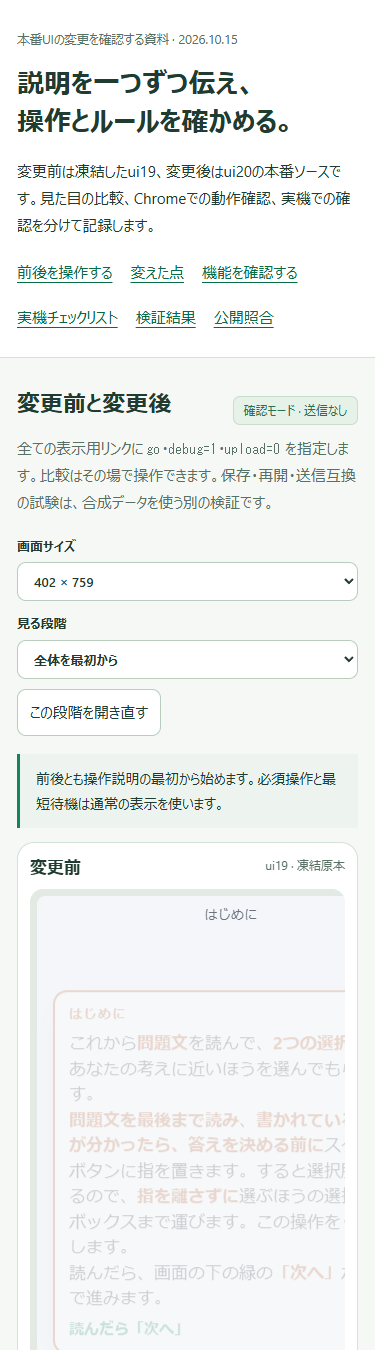
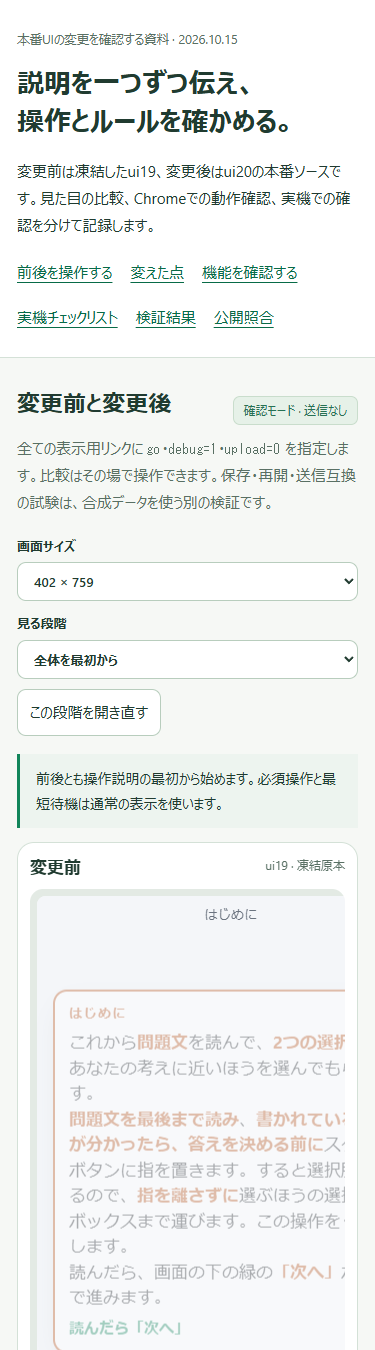
docs(pilot): clarify Chrome and physical verification status

diff --git a/pilot-anchor/reviews/2026-10-15-guided-release/review.js b/pilot-anchor/reviews/2026-10-15-guided-release/review.js
@@ -56,7 +56,7 @@ byId('beforeAdvance').onclick=async()=>{
 };
 function renderAudits(){
  const group=byId('group').value,status=byId('status').value,show=audits.filter(item=>(!group||item.group===group)&&(!status||item.status===status));
- byId('auditList').replaceChildren();byId('auditCount').textContent=audits.length+'機能 · Chrome動作確認 '+audits.filter(i=>i.status==='passed').length+' · 未確認 '+audits.filter(i=>i.status==='not_verified').length;
+ byId('auditList').replaceChildren();byId('auditCount').textContent=audits.length+'機能 · Chrome確認済み '+audits.filter(i=>i.status==='passed').length+' · 一部確認 '+audits.filter(i=>i.status==='partial').length+' · 実機未確認 '+audits.filter(i=>i.verification?.physicalStatus==='not_verified').length;
  for(const item of show){const card=document.createElement('article');card.className='audit-card';
  const head=document.createElement('div');head.className='audit-head';const title=document.createElement('div');const small=document.createElement('small');small.textContent=item.group+' · '+item.id;const h=document.createElement('h3');h.textContent=item.title;title.append(small,h);const badge=document.createElement('span');badge.className='badge status-'+item.status;badge.textContent=statusLabels[item.status]||item.status;head.append(title,badge);card.append(head);
  const columns=document.createElement('div');columns.className='audit-columns';for(const [label,value] of [['変更前の機能',item.before],['変更後に満たす条件',item.requiredAfter]]){const column=document.createElement('div'),strong=document.createElement('strong'),p=document.createElement('p');strong.textContent=label;p.textContent=value;column.append(strong,p);columns.append(column);}card.append(columns);
@@ -68,4 +68,3 @@ function renderAudits(){
 byId('group').onchange=renderAudits;byId('status').onchange=renderAudits;
 fetch('inheritance.json',{cache:'no-store'}).then(r=>{if(!r.ok)throw Error('監査データを読み込めません');return r.json();}).then(data=>{audits=data.items;for(const group of [...new Set(audits.map(i=>i.group))]){const o=document.createElement('option');o.value=group;o.textContent=group;byId('group').append(o);}renderAudits();}).catch(e=>{byId('auditCount').textContent=e.message;});
 loadFrames();
-
